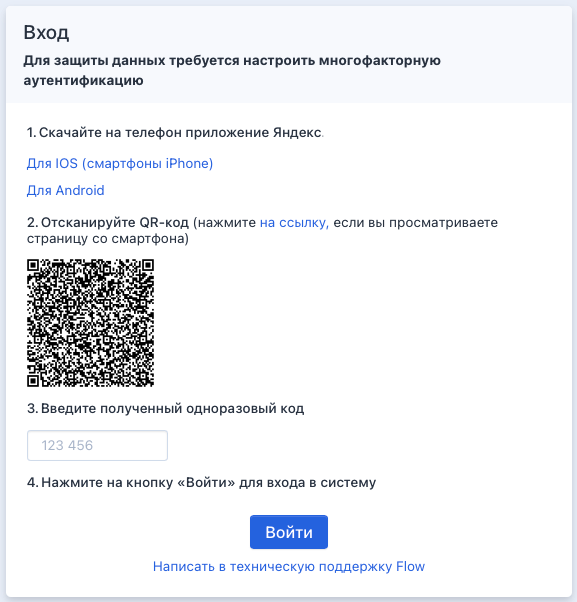
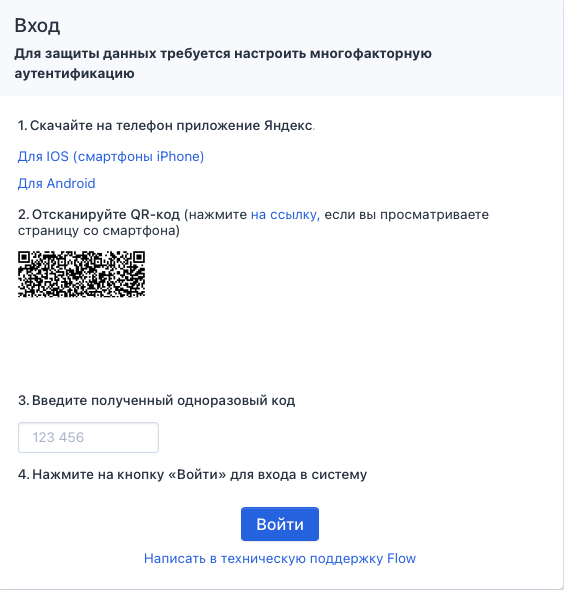
Update 2 files
- scenarii/kak-voiti-s-yandeks.klyuch.md
   - scenarii/kak-voiti-s-yandeks.klyuch-2.png

Changed region(s): [[0.0, 0.0305, 1.0, 1.0]]

diff --git a/scenarii/kak-voiti-s-yandeks.klyuch.md b/scenarii/kak-voiti-s-yandeks.klyuch.md
@@ -22,7 +22,7 @@ title: Как войти с Яндекс ID
 
 4\.Если учетная запись ещё не привязана к Яндекс ID, то отобразится QR код.
 
-![](./kak-voiti-s-yandeks.klyuch-2.png){width=577px height=602px}
+![](./kak-voiti-s-yandeks.klyuch-2.png){width=564px height=590px}
 
 5\.Откройте Яндекс ID на телефоне и нажмите знак «+», чтобы добавить новый аккаунт.
 
